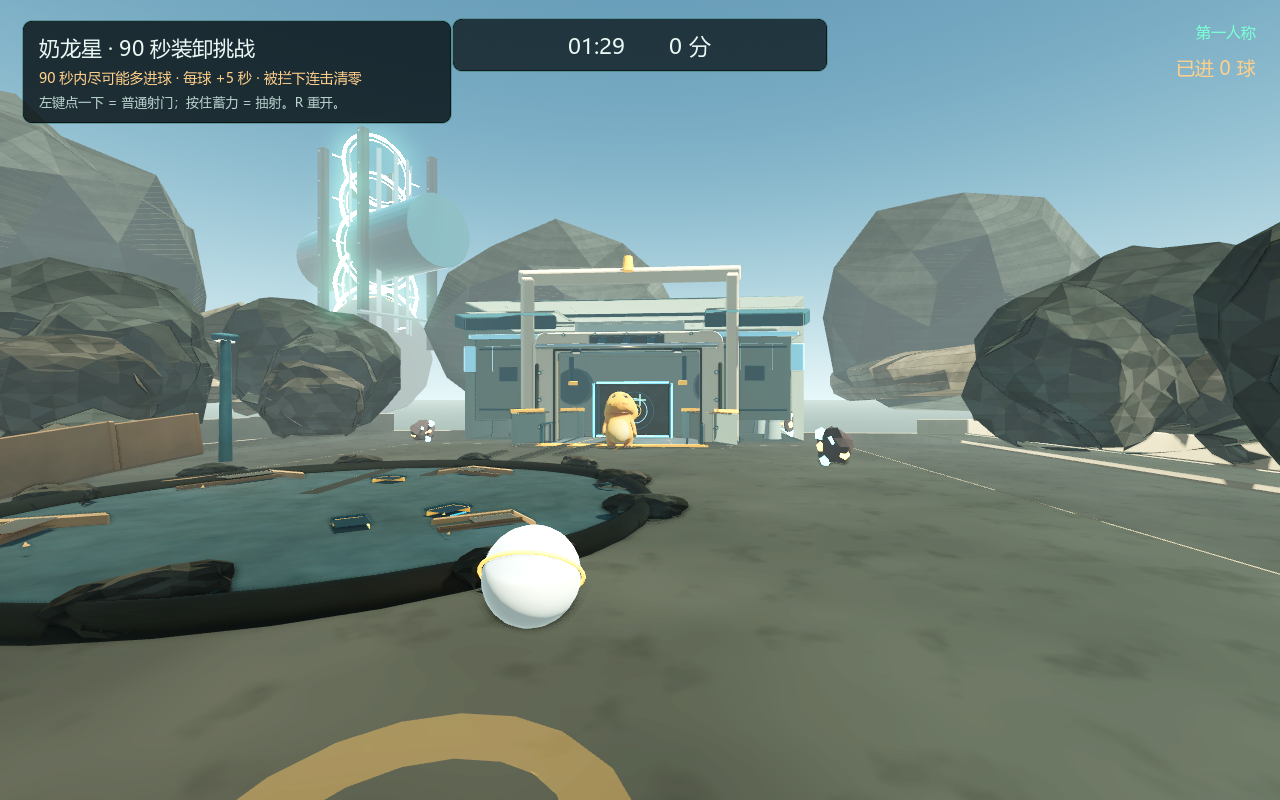
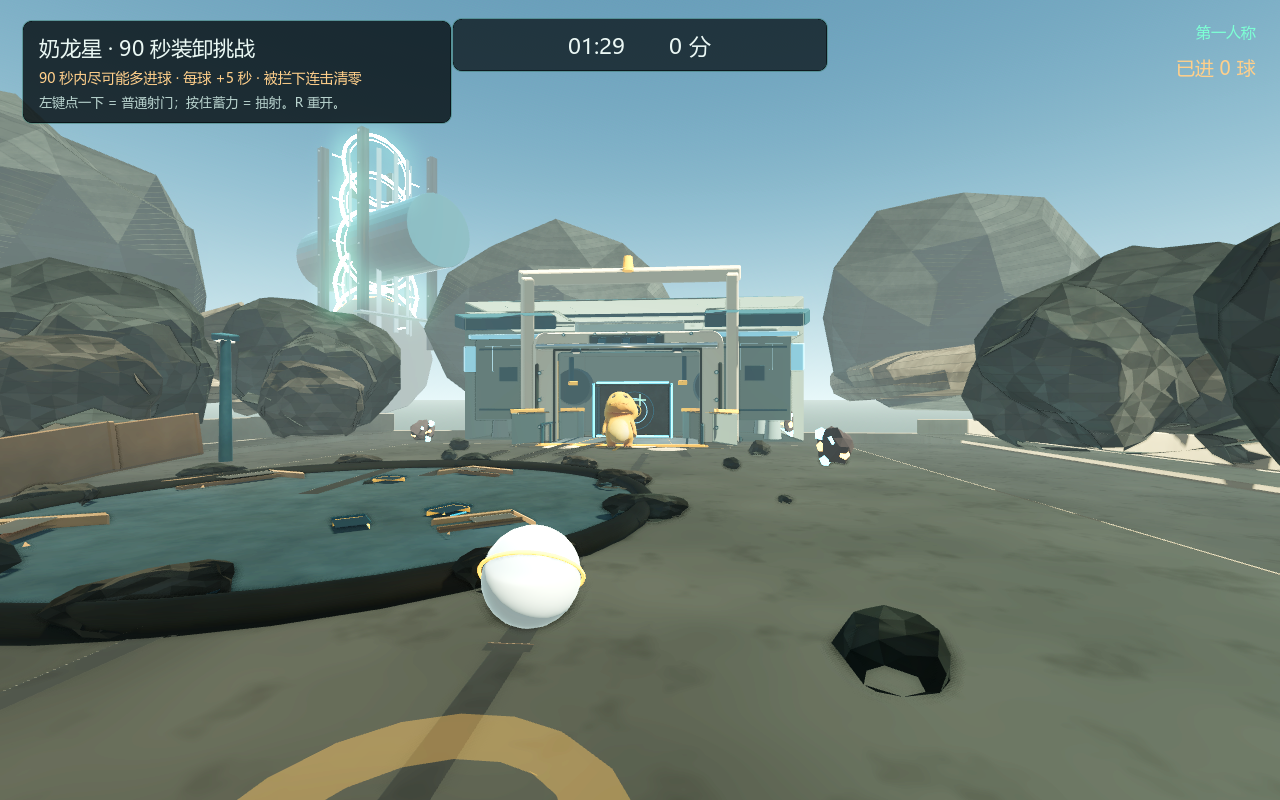
feat(gulu): crosswind gusts, pitched sfx and ground detail pass
- wind: 20-30s interval, 6s gust, 2.4-3.8N lateral force via EnergyBall.wind; HUD arrow; disabled in shots/record/tests

- audio: play_pitched(); goal pitch rises with combo, last-10s ticks, end whistle

- ground: tire tracks + tread marks, brake marks, oil stains, 12 edge pebbles (no collision)

- tests: selftest 45/0, arcade 21/0, wind 7/0; perf 323.8 FPS / 1273 DC

diff --git a/game/previews/gulu_planet/HANDOFF.md b/game/previews/gulu_planet/HANDOFF.md
@@ -3,9 +3,19 @@
 > 多日任务续点。新会话先读本文件，再读 `STATUS.md` / `TESTING.md` / `BRIEF.md`。
 > 每次推进后更新「当前状态 / 下一步 / 恢复命令」，不要只依赖聊天记录。
 
-最后更新：2026-11-23（后期/岩石顶点色 + 90 秒街机玩法）
+最后更新：2026-11-23（第三轮：侧风 + 声音 + 地面细节）
 
-## 2026-11-23 · 90 秒装卸挑战（玩法，当前）
+## 2026-11-23 · 第三轮：侧风 / 声音 / 地面细节（当前）
+
+- **侧风**：真实游玩每 20–30 s 一阵、持续 6 s、横向 2.4–3.8 N；HUD 显示方向与强度；
+  只写 `EnergyBall.wind`，不改速度/位置；截图与回归不开。
+- **声音**：`sfx.play_pitched()`；进球随连击升调、最后 10 s 每秒滴答、结束低音哨声。
+- **地面细节**：车辙+胎纹、刹车痕、油渣、场边 12 块碎石（无碰撞、≤5 mm）。
+- 自测：`--selftest` 45/0、`--arcade-test` 21/0、`--wind-test` 7/0；
+  性能 323.8 FPS / 1273 DC。
+- 详见 `docs/GAMEPLAY_2026-11-23.md` 第 6 节、`docs/ART_PASS_2026-11-23.md` 第 7 节。
+
+## 2026-11-23 · 90 秒装卸挑战（玩法）
 
 - 从「进一球就通关」改成街机循环：**90 s 限时 / 连击计分 / 每球 +5 s /
   进球后球随机重生 / 奶龙每 2 球提一档 / 按住左键蓄力抽射**。
